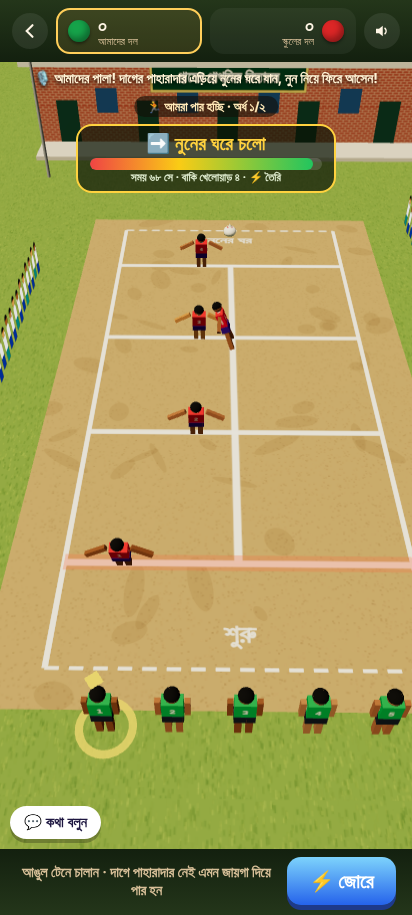
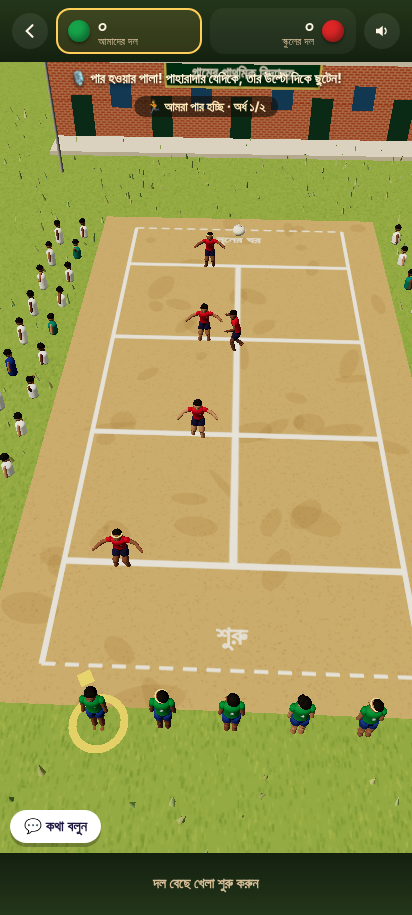
গোল্লাছুট আর দাড়িয়াবান্ধায় নতুন মসৃণ মানুষ, ৩ডি দর্শক, ঘাস, হালকা গ্লো; মাঠের মাটি আরো বাস্তব (kh-scene)
Claude-Session: https://claude.ai/code/session_01Sj7bcfDAG9UkavWmhC1U6s

diff --git a/games/gollachut/index.html b/games/gollachut/index.html
@@ -150,6 +150,8 @@ canvas{position:absolute;inset:0;width:100%;height:100%;display:block}
 <script src="/js/share-card.js"></script>
 <script type="module">
 import * as THREE from "/js/vendor/three.module.min.js";
+import { makeHuman } from "/js/kh-human.js";
+import { grassTufts, crowd as mkCrowd, composerFor } from "/js/kh-scene.js";
 import { initializeApp } from "https://www.gstatic.com/firebasejs/10.12.2/firebase-app.js";
 import { getAuth, onAuthStateChanged } from "https://www.gstatic.com/firebasejs/10.12.2/firebase-auth.js";
 import { getFirestore, doc, getDoc, setDoc, onSnapshot, collection, query, orderBy, limit, serverTimestamp } from "https://www.gstatic.com/firebasejs/10.12.2/firebase-firestore.js";
@@ -197,7 +199,7 @@ if (renderer) { renderer.setPixelRatio(Math.min(devicePixelRatio || 1, LOW ? 1.2
 const sky = new THREE.Mesh(new THREE.SphereGeometry(150, 24, 12), new THREE.ShaderMaterial({ side: THREE.BackSide, depthWrite: false, uniforms: {}, vertexShader: 'varying vec3 vp; void main(){ vp = normalize(position); gl_Position = projectionMatrix * modelViewMatrix * vec4(position,1.0); }', fragmentShader: 'varying vec3 vp; void main(){ float h = clamp(vp.y, 0.0, 1.0); vec3 top = vec3(.36,.6,.9), mid = vec3(.98,.78,.55), low = vec3(1.0,.88,.7); vec3 c = mix(low, mid, smoothstep(0.0,.12,h)); c = mix(c, top, smoothstep(.1,.55,h)); float sun = pow(max(dot(vp, normalize(vec3(-.5,.25,-.8))),0.0), 60.0); c += vec3(1.0,.8,.5)*sun*.8; gl_FragColor = vec4(c,1.0);\n#include <tonemapping_fragment>\n#include <colorspace_fragment>\n}' }));
 scene.add(sky); scene.fog = new THREE.Fog('#f1d7b0', 45, 120);
 scene.add(new THREE.HemisphereLight('#ffe9cc', '#56662f', 1.15));
-const sun = new THREE.DirectionalLight('#ffd6a0', 2.7); sun.position.set(-14, 16, -10); sun.castShadow = true; sun.shadow.mapSize.set(2048, 2048); Object.assign(sun.shadow.camera, { left: -18, right: 18, top: 20, bottom: -20, far: 70 }); sun.shadow.bias = -.0005; scene.add(sun); scene.add(sun.target);
+const sun = new THREE.DirectionalLight('#ffc98a', 3.0); sun.position.set(-16, 11, -10); sun.castShadow = true; sun.shadow.mapSize.set(2048, 2048); Object.assign(sun.shadow.camera, { left: -18, right: 18, top: 20, bottom: -20, far: 70 }); sun.shadow.bias = -.0005; scene.add(sun); scene.add(sun.target);
 function ctex(w, h, draw) { const c = document.createElement('canvas'); c.width = w; c.height = h; draw(c.getContext('2d'), w, h); const t = new THREE.CanvasTexture(c); t.colorSpace = THREE.SRGBColorSpace; t.anisotropy = 4; return t; }
 const M = (c, o) => new THREE.MeshStandardMaterial(Object.assign({ color: c, roughness: .9 }, o || {}));
 const PEG = [0, 11], TREE = [0, -14], FX = 9, FZ1 = 14.5, FZ0 = -17, CIRCLE = 5.6, SAFE = 2.6;
@@ -206,10 +208,13 @@ grassT.wrapS = grassT.wrapT = THREE.RepeatWrapping; grassT.repeat.set(18, 18);
 const ground = new THREE.Mesh(new THREE.PlaneGeometry(240, 240), M('#ffffff', { map: grassT })); ground.rotation.x = -Math.PI / 2; ground.receiveShadow = true; scene.add(ground);
 // মাঠের মাটি, চুনের দাগ
 const FW = FX * 2 + 1, FL = FZ1 - FZ0 + 1;
-const fieldT = ctex(512, 1024, (x, w, h) => {
-  x.fillStyle = '#b39a62'; x.fillRect(0, 0, w, h);
-  for (let i = 0; i < 12000; i++) { const v = Math.random(); x.fillStyle = `rgba(${120 + v * 60},${110 + v * 50},${60 + v * 40},.35)`; x.fillRect(Math.random() * w, Math.random() * h, 2, 2); }
-  for (let i = 0; i < 260; i++) { x.fillStyle = `rgba(${90 + Math.random() * 40},${130 + Math.random() * 40},50,.45)`; x.beginPath(); x.ellipse(Math.random() * w, Math.random() * h, 6 + Math.random() * 26, 3 + Math.random() * 10, Math.random() * 3, 0, 7); x.fill(); }
+const fieldT = ctex(1024, 2048, (x, w, h) => {
+  x.fillStyle = '#9c7a4a'; x.fillRect(0, 0, w, h);
+  for (let i = 0; i < 40000; i++) { const v = Math.random(); x.fillStyle = `rgba(${110 + v * 70},${85 + v * 55},${50 + v * 35},.4)`; x.fillRect(Math.random() * w, Math.random() * h, 2 + Math.random() * 2, 2 + Math.random() * 2); }
+  for (let i = 0; i < 120; i++) { x.fillStyle = `rgba(70,50,28,${.06 + Math.random() * .08})`; x.beginPath(); x.ellipse(Math.random() * w, Math.random() * h, 20 + Math.random() * 70, 10 + Math.random() * 30, Math.random() * 3, 0, 7); x.fill(); }
+  { const g = x.createLinearGradient(w * .35, 0, w * .65, 0); g.addColorStop(0, 'rgba(190,160,110,0)'); g.addColorStop(.5, 'rgba(190,160,110,.35)'); g.addColorStop(1, 'rgba(190,160,110,0)'); x.fillStyle = g; x.fillRect(w * .35, 0, w * .3, h); } // খুঁটি থেকে বটতলা পর্যন্ত পায়ে চলা ছাপ
+  for (let i = 0; i < 500; i++) { x.strokeStyle = 'rgba(60,40,20,.1)'; x.lineWidth = 2; const a = w * .5 + (Math.random() - .5) * w * .5, b = Math.random() * h; x.beginPath(); x.ellipse(a, b, 5, 9, Math.random(), 0, 7); x.stroke(); }
+  for (let i = 0; i < 70; i++) { x.fillStyle = `rgba(${80 + Math.random() * 30},${110 + Math.random() * 30},45,.3)`; x.beginPath(); x.ellipse(Math.random() * w, Math.random() * h, 6 + Math.random() * 26, 3 + Math.random() * 10, Math.random() * 3, 0, 7); x.fill(); }
   const X = v => (v + FW / 2) / FW * w, Z = z => (z - FZ0 + .5) / FL * h, U = w / FW;
   x.strokeStyle = 'rgba(255,255,248,.9)'; x.lineWidth = 6; x.setLineDash([]);
   x.beginPath(); x.arc(X(PEG[0]), Z(PEG[1]), CIRCLE * U, 0, 7); x.stroke();
@@ -248,23 +253,21 @@ function hut(x, z, ry) {
 // দর্শক বাচ্চারা (দুই পাশে)
 const kidsTex = seed => ctex(512, 128, (x, w, h) => { x.clearRect(0, 0, w, h); const n = 14; for (let i = 0; i < n; i++) { const cx = 18 + i * (w - 36) / (n - 1), cy = 60 + (i % 2) * 6; x.fillStyle = ['#e74c3c', '#2563eb', '#16a34a', '#f59e0b', '#9333ea', '#ffffff', '#ec4899'][(i * 3 + seed) % 7]; x.beginPath(); x.roundRect ? x.roundRect(cx - 11, cy, 22, 52, 7) : x.fillRect(cx - 11, cy, 22, 52); x.fill(); x.fillStyle = ['#c68642', '#8d5524', '#a86b3c'][(i + seed) % 3]; x.beginPath(); x.arc(cx, cy - 10, 10, 0, 7); x.fill(); x.fillStyle = '#141414'; x.beginPath(); x.arc(cx, cy - 13, 10, Math.PI, 0); x.fill(); } });
 const crowds = [];
-[[-FX - 2.5, -2, Math.PI / 2], [FX + 2.5, 0, -Math.PI / 2], [-FX - 2.5, 9, Math.PI / 2], [FX + 2.5, -11, -Math.PI / 2]].forEach(([x, z, r], i) => { const m = new THREE.Mesh(new THREE.PlaneGeometry(9, 2.2), new THREE.MeshBasicMaterial({ map: kidsTex(i), transparent: true, side: THREE.DoubleSide, alphaTest: .05 })); m.position.set(x, 1.05, z); m.rotation.y = r; scene.add(m); crowds.push(m); });
+// দুই পাশে ৩ডি দর্শক (পাড়ার লোক আর বাচ্চারা)
+const CSP = []; for (const sx of [-1, 1]) for (let r = 0; r < 2; r++) for (let i = 0; i < 16; i++) { const z = -14 + i * 1.65 + (r ? .8 : 0); if (z > 12) continue; CSP.push({ x: sx * (FX + 2 + r * .9), z, ry: sx > 0 ? -Math.PI / 2 : Math.PI / 2, sit: r === 0 }); }
+const crowdUpd = mkCrowd(THREE, scene, CSP); let excite = 0;
+grassTufts(THREE, scene, { n: 1600, range: 26, skip: (x, z) => Math.abs(x) < FX + .8 && z > FZ0 - .6 && z < FZ1 + .6 });
 
 // খেলোয়াড়ের মডেল
 const SKIN = ['#c68642', '#8d5524', '#a86b3c', '#b07a4a'];
 function shirtTex(c, n) { return ctex(64, 64, (x, w, h) => { x.fillStyle = c; x.fillRect(0, 0, w, h); x.fillStyle = 'rgba(255,255,255,.9)'; x.font = '800 30px sans-serif'; x.textAlign = 'center'; x.fillText(String(n), w / 2, 44); }); }
 const shortsM = [M('#1f2937'), M('#4c1d95')];
-function mkMan(team, n, leader) {
-  const g = new THREE.Group(), body = new THREE.Group(); g.add(body);
-  const skin = M(pick(SKIN), { roughness: .7 }), shirt = new THREE.MeshStandardMaterial({ map: shirtTex(team ? '#dc2626' : '#16a34a', n), roughness: .8 });
-  const box = (w, h, d, x, y, z, m) => { const me = new THREE.Mesh(new THREE.BoxGeometry(w, h, d), m); me.position.set(x, y, z); me.castShadow = true; body.add(me); return me; };
-  box(.46, .55, .26, 0, 1.2, 0, shirt); box(.46, .26, .28, 0, .82, 0, shortsM[team]);
-  const mk = (x, y, w, h) => { const p = new THREE.Group(); p.position.set(x, y, 0); const m = new THREE.Mesh(new THREE.BoxGeometry(w, h, w), skin); m.position.y = -h / 2; m.castShadow = true; p.add(m); body.add(p); return p; };
-  const legL = mk(-.12, .72, .15, .7), legR = mk(.12, .72, .15, .7), armL = mk(-.31, 1.45, .12, .58), armR = mk(.31, 1.45, .12, .58);
-  const head = new THREE.Mesh(new THREE.SphereGeometry(.16, 14, 10), skin); head.position.y = 1.67; head.castShadow = true; body.add(head);
-  const hair = new THREE.Mesh(new THREE.SphereGeometry(.17, 14, 10, 0, Math.PI * 2, 0, Math.PI / 2), M('#111')); hair.position.y = 1.7; body.add(hair);
-  if (leader) { const band = new THREE.Mesh(new THREE.TorusGeometry(.165, .035, 6, 16), M('#facc15', { emissive: '#7a5a00' })); band.rotation.x = Math.PI / 2; band.position.y = 1.72; body.add(band); } // গোদার মাথায় হলুদ ফিতা
-  scene.add(g); return { g, body, legL, legR, armL, armR };
+const POOL = [[], []];
+const SKINS = ['#9a6a4f', '#6e4532', '#b58467', '#83563d', '#8a5a40'];
+function mkMan(team, n, leader) { // হাড়সহ মসৃণ মানুষ; একবার বানিয়ে বারবার ব্যবহার
+  if (POOL[team][n]) { const h = POOL[team][n]; h.root.visible = true; return { h, g: h.root }; }
+  const h = makeHuman(THREE, { skin: SKINS[(n * 3 + team) % 5], shirt: team ? '#b91c1c' : '#15803d', shorts: team ? '#1e1b4b' : '#111827', trim: '#facc15', number: n, hairStyle: leader ? 2 : (n + team) % 2, mustache: (n + team * 2) % 4 === 0, look: team ? 'angry' : 'calm' });
+  scene.add(h.root); POOL[team][n] = h; return { h, g: h.root };
 }
 const star = new THREE.Mesh(new THREE.OctahedronGeometry(.2, 0), new THREE.MeshBasicMaterial({ color: '#ffd23f' })); star.visible = false; scene.add(star);
 const meRing = new THREE.Mesh(new THREE.RingGeometry(.5, .68, 28), new THREE.MeshBasicMaterial({ color: '#ffd23f', transparent: true, opacity: .85, side: THREE.DoubleSide, depthWrite: false })); meRing.rotation.x = -Math.PI / 2; meRing.visible = false; scene.add(meRing);
@@ -281,7 +284,6 @@ const GUARD = [[-6, .5], [6, .5], [-3.5, -4], [3.5, -4], [0, -9.5]];
 let lv = 1, S = null, W = 0, H = 0, last = 0;
 function newMatch() {
   const mk = (team) => Array.from({ length: RUNNERS }, (_, i) => ({ team, i, x: 0, z: 0, vx: 0, vz: 0, m: mkMan(team, i + 1, i === RUNNERS - 1) }));
-  if (S) S.P.forEach(t => t.forEach(p => scene.remove(p.m.g)));
   S = { P: [mk(0), mk(1)], score: [0, 0], half: 0, phase: 'idle', t: 0, ang: 0, cur: 0, runner: null, joy: null, dash: 0, dashCd: 0, myTags: 0, mySafe: 0, over: false, ctrl: 0 };
   setupHalf();
 }
@@ -463,25 +465,30 @@ function step(dt) {
     }
   }
 }
+let poseDt = 1 / 60;
 function pose(p, T0) {
-  const g = p.m.g, sp = Math.hypot(p.vx || 0, p.vz || 0), run = Math.min(1, sp / 3.5);
-  g.position.set(p.x, 0, p.z); if (sp > .3) g.rotation.y = Math.atan2(p.vx, p.vz);
-  const s = Math.sin(T0 * (10 + sp * 1.4) + p.i) * run; p.m.legL.rotation.x = s * 1; p.m.legR.rotation.x = -s * 1; p.m.armL.rotation.x = -s * .9; p.m.armR.rotation.x = s * .9;
-  p.m.armL.rotation.z = p.m.armR.rotation.z = 0; p.m.body.rotation.x = run * .22; p.m.body.position.y = Math.abs(s) * .06;
-  if (p.state === 'chain') { p.m.armL.rotation.z = -1.35; p.m.armR.rotation.z = 1.35; p.m.armL.rotation.x = p.m.armR.rotation.x = 0; if (p.i === RUNNERS - 1) g.rotation.y = Math.atan2(PEG[0] - p.x, PEG[1] - p.z); }
-  if (p.state === 'safe' && sp < .3) { p.m.armL.rotation.z = -2.6 + Math.sin(T0 * 8) * .3; p.m.armR.rotation.z = 2.6 - Math.sin(T0 * 8) * .3; p.m.body.position.y = Math.abs(Math.sin(T0 * 6)) * .2; }
-  if (p.state === 'out' && sp < .3) { p.m.body.rotation.x = 0; p.m.legL.rotation.x = p.m.legR.rotation.x = -1.4; p.m.body.position.y = -.55; g.rotation.y = 0; }
-  if (p.tagAnim > 0) { p.tagAnim -= 1 / 60; p.m.armR.rotation.x = -1.6; p.m.armL.rotation.x = -1.6; p.m.body.rotation.x = .5; }
+  const h = p.m.h, g = h.root, sp = Math.hypot(p.vx || 0, p.vz || 0);
+  g.position.set(p.x, 0, p.z);
+  let face = sp > .3 ? Math.atan2(p.vx, p.vz) : null;
+  if (p.state === 'chain' && p.i === RUNNERS - 1) face = Math.atan2(PEG[0] - p.x, PEG[1] - p.z);
+  if (p.state === 'out' && sp < .3) face = 0;
+  if (face !== null) { const d = Math.atan2(Math.sin(face - g.rotation.y), Math.cos(face - g.rotation.y)); g.rotation.y += d * Math.min(1, poseDt * 12); }
+  const guard = p.state === 'guard' && S && S.phase !== 'end';
+  h.set({ run: Math.min(1, sp / 3.6), wide: p.state === 'chain' ? .85 : guard && sp < 1.5 ? .7 : 0, crouch: guard ? .45 : 0, cheer: p.state === 'safe' && sp < .3 ? 1 : 0, shout: p.state === 'safe' || (p === (S && S.runner) && S.phase === 'run') ? 1 : 0, sit: p.state === 'out' && sp < .3 ? 1 : 0, reach: p.tagAnim > 0 ? 1 : 0, lean: p.tagAnim > 0 ? .3 : 0 });
+  if (p.tagAnim > 0) p.tagAnim -= poseDt;
+  h.look = S && S.runner && S.runner !== p ? S.runner : null;
+  h.update(poseDt, sp);
 }
 
 /* ---------- ক্যামেরা আর লুপ ---------- */
-function resize() { const r = $('stage').getBoundingClientRect(); W = r.width; H = r.height; if (renderer) renderer.setSize(W, H, false); cam.aspect = W / H; cam.fov = W / H < .8 ? 62 : 48; cam.updateProjectionMatrix(); }
+const composer = composerFor(THREE, renderer, scene, cam, { strength: .22, threshold: .9 });
+function resize() { const r = $('stage').getBoundingClientRect(); W = r.width; H = r.height; if (renderer) renderer.setSize(W, H, false); if (composer) { composer.setPixelRatio(renderer.getPixelRatio()); composer.setSize(W, H); } cam.aspect = W / H; cam.fov = W / H < .8 ? 62 : 48; cam.updateProjectionMatrix(); }
 addEventListener('resize', resize);
 const camPos = new THREE.Vector3(0, 14, 24), camLook = new THREE.Vector3(0, 0, 4);
 function loop(ts) {
   const dt = Math.min(.05, (ts - last) / 1000 || 0); last = ts; const T0 = ts / 1000;
   if (S && !S.over) step(dt);
-  if (S) S.P.forEach(tm => tm.forEach(p => pose(p, T0)));
+  poseDt = dt; if (S) S.P.forEach(tm => tm.forEach(p => pose(p, T0)));
   const port = W / H < .8;
   if (S && !S.over) {
     const a = atkTeam(), focus = S.phase === 'run' ? S.runner : null, nr = S.phase === 'spin' ? nextRunner() : null, hl = focus || nr;
@@ -493,11 +500,11 @@ function loop(ts) {
   } else { camPos.set(Math.sin(T0 * .1) * 8, port ? 20 : 14, 22); camLook.set(0, 0, -2); }
   sun.position.set(cam.position.x - 14, 16, cam.position.z - 12); sun.target.position.set(camLook.x, 0, camLook.z);
   dusts.forEach(d => { if (d.t >= 1) { d.s.visible = false; return; } d.t = Math.min(1, d.t + dt * 1.6); const s = .7 + d.t * 2.2 * d.k; d.s.scale.set(s, s, 1); d.s.material.opacity = (1 - d.t) * .55; d.s.position.y += dt * .6; });
-  crowds.forEach((c, i) => c.position.y = 1.05 + Math.abs(Math.sin(T0 * (S && S.phase === 'result' ? 9 : 2.2) + i)) * (S && S.phase === 'result' ? .16 : .04));
+  excite += ((S && S.phase === 'result' ? 1 : 0) - excite) * Math.min(1, dt * 2); crowdUpd(T0, excite);
   safeRing.material.opacity = .4 + Math.sin(T0 * 4) * .2; pegTop.position.y = 1.45 + Math.sin(T0 * 3) * .03;
   banyan.rotation.y = Math.sin(T0 * .6) * .01;
   cam.position.lerp(camPos, .07); cam.lookAt(camLook);
-  if (renderer) renderer.render(scene, cam); requestAnimationFrame(loop);
+  if (renderer) { if (composer) composer.render(dt); else renderer.render(scene, cam); } requestAnimationFrame(loop);
 }
 function start(level) {
   audio(); lv = level; store.set('kh-golla-lv', lv); newMatch(); ['startO', 'endO'].forEach(i => $(i).hidden = true);

diff --git a/games/dariabandha/index.html b/games/dariabandha/index.html
@@ -155,6 +155,8 @@ import { getAuth, onAuthStateChanged } from "https://www.gstatic.com/firebasejs/
 import { getFirestore, doc, getDoc, setDoc, onSnapshot, collection, query, orderBy, limit, serverTimestamp } from "https://www.gstatic.com/firebasejs/10.12.2/firebase-firestore.js";
 import { firebaseConfig, ADMIN_EMAILS } from "/js/firebase-config.js";
 import { attachGameVideos } from "/js/videos.js";
+import { makeHuman } from "/js/kh-human.js";
+import { grassTufts, crowd as mkCrowd, composerFor } from "/js/kh-scene.js";
 
 const app = initializeApp(firebaseConfig), auth = getAuth(app), db = getFirestore(app);
 attachGameVideos(cb => onSnapshot(doc(db, 'config', 'videos'), d => cb(d.exists() ? d.data() : {}), () => {}));
@@ -238,23 +240,20 @@ function tree(x, z, s) { const g = new THREE.Group(); const tr = new THREE.Mesh(
 // দর্শক ছাত্রছাত্রী (সাদা শার্ট, নীল প্যান্ট/স্কার্ট)
 const kidsTex = seed => ctex(512, 128, (x, w, h) => { x.clearRect(0, 0, w, h); const n = 14; for (let i = 0; i < n; i++) { const cx = 18 + i * (w - 36) / (n - 1), cy = 58 + (i % 2) * 6; x.fillStyle = '#f8f8f4'; x.beginPath(); x.roundRect ? x.roundRect(cx - 11, cy, 22, 30, 6) : x.fillRect(cx - 11, cy, 22, 30); x.fill(); x.fillStyle = (i + seed) % 3 ? '#1e3a8a' : '#0f766e'; x.fillRect(cx - 11, cy + 28, 22, 26); x.fillStyle = ['#c68642', '#8d5524', '#a86b3c'][(i + seed) % 3]; x.beginPath(); x.arc(cx, cy - 10, 10, 0, 7); x.fill(); x.fillStyle = '#141414'; x.beginPath(); x.arc(cx, cy - 13, 10, Math.PI, 0); x.fill(); if ((i + seed) % 2) { x.fillStyle = '#ffffff'; x.fillRect(cx - 12, cy - 6, 4, 10); x.fillRect(cx + 8, cy - 6, 4, 10); } } });
 const crowds = [];
-[[-HX - 3.2, -3, Math.PI / 2], [HX + 3.2, 3, -Math.PI / 2], [-HX - 3.2, 7, Math.PI / 2], [HX + 3.2, -7, -Math.PI / 2]].forEach(([x, z, r], i) => { const m = new THREE.Mesh(new THREE.PlaneGeometry(8, 2.2), new THREE.MeshBasicMaterial({ map: kidsTex(i), transparent: true, side: THREE.DoubleSide, alphaTest: .05 })); m.position.set(x, 1.05, z); m.rotation.y = r; scene.add(m); crowds.push(m); });
+const CSP = []; for (const sx of [-1, 1]) for (let r = 0; r < 2; r++) for (let i = 0; i < 12; i++) CSP.push({ x: sx * (HX + 2.2 + r * .9), z: -9.5 + i * 1.75 + (r ? .8 : 0), ry: sx > 0 ? -Math.PI / 2 : Math.PI / 2, sit: r === 0 });
+const crowdUpd = mkCrowd(THREE, scene, CSP, { colors: ['#f8fafc', '#f1f5f9', '#e2e8f0', '#1e3a8a', '#0f766e', '#f8fafc'] }); let excite = 0; // স্কুল ড্রেসের ছাত্রছাত্রী
+grassTufts(THREE, scene, { n: 1400, range: 24, skip: (x, z) => Math.abs(x) < HX + 1.6 && z > ZE - 1.2 && z < ZS + 2.2 });
 
 // খেলোয়াড়
 const SKIN = ['#c68642', '#8d5524', '#a86b3c', '#b07a4a'];
 function shirtTex(c, n) { return ctex(64, 64, (x, w, h) => { x.fillStyle = c; x.fillRect(0, 0, w, h); x.fillStyle = 'rgba(255,255,255,.9)'; x.font = '800 30px sans-serif'; x.textAlign = 'center'; x.fillText(String(n), w / 2, 44); }); }
 const shortsM = [M('#1f2937'), M('#4c1d95')];
-function mkMan(team, n) {
-  const g = new THREE.Group(), body = new THREE.Group(); g.add(body);
-  const skin = M(pick(SKIN), { roughness: .7 }), shirt = new THREE.MeshStandardMaterial({ map: shirtTex(team ? '#dc2626' : '#16a34a', n), roughness: .8 });
-  const box = (w, h, d, x, y, z, m) => { const me = new THREE.Mesh(new THREE.BoxGeometry(w, h, d), m); me.position.set(x, y, z); me.castShadow = true; body.add(me); return me; };
-  box(.46, .55, .26, 0, 1.2, 0, shirt); box(.46, .26, .28, 0, .82, 0, shortsM[team]);
-  const mk = (x, y, w, h) => { const p = new THREE.Group(); p.position.set(x, y, 0); const m = new THREE.Mesh(new THREE.BoxGeometry(w, h, w), skin); m.position.y = -h / 2; m.castShadow = true; p.add(m); body.add(p); return p; };
-  const legL = mk(-.12, .72, .15, .7), legR = mk(.12, .72, .15, .7), armL = mk(-.31, 1.45, .12, .58), armR = mk(.31, 1.45, .12, .58);
-  const head = new THREE.Mesh(new THREE.SphereGeometry(.16, 14, 10), skin); head.position.y = 1.67; head.castShadow = true; body.add(head);
-  const hair = new THREE.Mesh(new THREE.SphereGeometry(.17, 14, 10, 0, Math.PI * 2, 0, Math.PI / 2), M('#111')); hair.position.y = 1.7; body.add(hair);
-  const bag = new THREE.Mesh(new THREE.SphereGeometry(.13, 10, 8), M('#f4f1ea')); bag.position.set(.34, 1.0, .1); bag.visible = false; body.add(bag); // নুনের পুঁটলি হাতে
-  scene.add(g); return { g, body, legL, legR, armL, armR, bag };
+const POOL = [[], []], SKINS = ['#9a6a4f', '#6e4532', '#b58467', '#83563d', '#8a5a40'];
+function mkMan(team, n) { // হাড়সহ মসৃণ মানুষ (স্কুল ড্রেসের মতো জার্সি), একবার বানিয়ে বারবার ব্যবহার
+  if (POOL[team][n]) return POOL[team][n];
+  const h = makeHuman(THREE, { skin: SKINS[(n * 3 + team) % 5], shirt: team ? '#b91c1c' : '#15803d', shorts: team ? '#1e1b4b' : '#1e3a8a', trim: '#fde68a', number: n, hairStyle: (n + team) % 3, mustache: false, look: team ? 'angry' : 'calm', scale: .92 });
+  const bag = new THREE.Mesh(new THREE.SphereGeometry(.12, 12, 10), new THREE.MeshStandardMaterial({ color: '#f4f1ea', roughness: .6 })); bag.scale.y = .85; bag.position.set(0, -.1, .02); bag.visible = false; h.bones.wrR.add(bag);
+  scene.add(h.root); return POOL[team][n] = { h, g: h.root, bag };
 }
 const star = new THREE.Mesh(new THREE.OctahedronGeometry(.2, 0), new THREE.MeshBasicMaterial({ color: '#ffd23f' })); star.visible = false; scene.add(star);
 const meRing = new THREE.Mesh(new THREE.RingGeometry(.5, .68, 28), new THREE.MeshBasicMaterial({ color: '#ffd23f', transparent: true, opacity: .85, side: THREE.DoubleSide, depthWrite: false })); meRing.rotation.x = -Math.PI / 2; meRing.visible = false; scene.add(meRing);
@@ -270,7 +269,6 @@ const LV = [{ n: 'ছোট ক্লাসের দল', dsp: 2.3, lag: .7, as
 const HALVES = 2, LIVES = 4, HALFT = 70, MYSP = 4.7, MYDEF = 3.4;
 let lv = 1, S = null, W = 0, H = 0, last = 0;
 function newMatch() {
-  if (S) S.P.forEach(t => t.forEach(p => scene.remove(p.m.g)));
   const mk = team => Array.from({ length: 5 }, (_, i) => ({ team, i, x: 0, z: 0, vx: 0, vz: 0, m: mkMan(team, i + 1) }));
   S = { P: [mk(0), mk(1)], score: [0, 0], half: 0, phase: 'idle', t: 0, joy: null, dash: 0, dashCd: 0, myTrips: 0, myTags: 0, over: false };
   setupHalf();
@@ -302,7 +300,7 @@ function caught(byMe, d) {
   S.phase = 'pause'; S.t = 0;
 }
 function trip() {
-  const a = atk(), r = S.cur; S.score[a]++; hud(); sfx('point'); sfx('cheer'); r.salt = false; r.m.bag.visible = false; r.dir = -1;
+  const a = atk(), r = S.cur; S.score[a]++; hud(); sfx('point'); sfx('cheer'); r.cheerT = 1.5; excite = 1; r.salt = false; r.m.bag.visible = false; r.dir = -1;
   if (a === 0) { S.myTrips++; shout('নুন নিয়ে ফিরলেন! +১ 🧂', '#8af58a'); $('com').textContent = '🎙 ' + pick(['সাবাস! পুরো মাঠ পার!', 'কেউ ছুঁতেই পারলো না!', 'আবার যান, আরেকবার নুন আনেন!']); if (window.KHViral && S.myTrips % 3 === 0) KHViral.confetti(); }
   else { shout('ওরা নুন নিয়ে ফিরলো +১', '#ff9a8a'); $('com').textContent = '🎙 ' + pick(['ইশ! পুরো পথ পার হয়ে গেলো!', 'পাহারা আরো শক্ত করতে হবে!']); }
 }
@@ -417,31 +415,31 @@ function halfEnd() {
   S.half++; if (S.half >= HALVES) return endMatch();
   shout('অর্ধেক শেষ! এবার পাহারা', '#fff'); setTimeout(() => { if (S && !S.over && S.phase === 'swap') setupHalf(); }, 1600);
 }
+let poseDt = 1 / 60;
 function pose(p, T0) {
-  const g = p.m.g, sp = Math.hypot(p.vx || 0, p.vz || 0), run = Math.min(1, sp / 3.2);
+  const h = p.m.h, g = h.root, sp = Math.hypot(p.vx || 0, p.vz || 0), r = S && S.cur;
   g.position.set(p.x, 0, p.z);
-  const s = Math.sin(T0 * (10 + sp * 1.5) + p.i) * run; p.m.legL.rotation.x = s; p.m.legR.rotation.x = -s; p.m.armL.rotation.x = -s * .9; p.m.armR.rotation.x = s * .9; p.m.armL.rotation.z = p.m.armR.rotation.z = 0; p.m.body.rotation.x = run * .2; p.m.body.position.y = Math.abs(s) * .05;
-  if (p.role === 'line' || p.role === 'mid') { // পাহারাদার: দাগে দাঁড়িয়ে দুই হাত ছড়ানো, ঝুঁকে থাকা
-    const r = S && S.cur; g.rotation.y = r ? (p.z > r.z ? Math.PI : 0) : 0; if (p.role === 'mid' && r) g.rotation.y = r.x > 0 ? Math.PI / 2 : -Math.PI / 2;
-    p.m.body.rotation.x = .35; p.m.armL.rotation.z = -1.1; p.m.armR.rotation.z = 1.1; p.m.armL.rotation.x = p.m.armR.rotation.x = -.4;
-    if (sp > .3) { const side = Math.sin(T0 * 14) * .35; p.m.legL.rotation.z = side; p.m.legR.rotation.z = -side; p.m.legL.rotation.x = p.m.legR.rotation.x = 0; } else p.m.legL.rotation.z = p.m.legR.rotation.z = 0;
-  } else if (sp > .3) g.rotation.y = Math.atan2(p.vx, p.vz);
-  if (p.role === 'wait') g.rotation.y = Math.PI;
-  if (p.role === 'out') { if (sp < .3) { p.m.body.rotation.x = 0; p.m.legL.rotation.x = p.m.legR.rotation.x = -1.4; p.m.body.position.y = -.55; g.rotation.y = 0; } }
-  if (p.tagAnim > 0) { p.tagAnim -= 1 / 60; p.m.armR.rotation.x = -1.6; p.m.armL.rotation.x = -1.6; p.m.body.rotation.x = .6; }
+  let face = null; const guard = p.role === 'line' || p.role === 'mid';
+  if (guard) face = p.role === 'mid' ? (r && r.x > 0 ? Math.PI / 2 : -Math.PI / 2) : (r ? (p.z > r.z ? Math.PI : 0) : 0);
+  else if (sp > .3) face = Math.atan2(p.vx, p.vz); else if (p.role === 'wait') face = Math.PI; else if (p.role === 'out') face = 0;
+  if (face !== null) { const d = Math.atan2(Math.sin(face - g.rotation.y), Math.cos(face - g.rotation.y)); g.rotation.y += d * Math.min(1, poseDt * 12); }
+  h.set({ run: guard ? Math.min(.5, sp / 4) : Math.min(1, sp / 3.4), crouch: guard ? .6 : 0, wide: guard ? 1 : 0, sit: p.role === 'out' && sp < .3 ? 1 : 0, reach: p.tagAnim > 0 ? 1 : 0, lean: p.tagAnim > 0 ? .35 : 0, cheer: p.cheerT > 0 ? 1 : 0, shout: p.cheerT > 0 || (p === r && sp > 4) ? 1 : 0 });
+  if (p.tagAnim > 0) p.tagAnim -= poseDt; if (p.cheerT > 0) p.cheerT -= poseDt;
+  h.look = r && r !== p ? r : null; h.update(poseDt, sp);
 }
 function sideline(dt) { // আউট হওয়ারা মাঠের পাশে বসে
   S.P.forEach(t => t.forEach((p, i) => { if (p.role === 'out') goTo(p, (p.team ? 1 : -1) * (HX + 1.4), ZS - 1 - i * .9, 3, dt); else if (p.role === 'wait') goTo(p, -3 + i * 1.5, ZS + 1.4, 3, dt); }));
 }
 
 /* ---------- ক্যামেরা আর লুপ ---------- */
-function resize() { const r = $('stage').getBoundingClientRect(); W = r.width; H = r.height; if (renderer) renderer.setSize(W, H, false); cam.aspect = W / H; cam.fov = W / H < .8 ? 60 : 46; cam.updateProjectionMatrix(); }
+const composer = composerFor(THREE, renderer, scene, cam, { strength: .2, threshold: .92 });
+function resize() { const r = $('stage').getBoundingClientRect(); W = r.width; H = r.height; if (renderer) renderer.setSize(W, H, false); if (composer) { composer.setPixelRatio(renderer.getPixelRatio()); composer.setSize(W, H); } cam.aspect = W / H; cam.fov = W / H < .8 ? 60 : 46; cam.updateProjectionMatrix(); }
 addEventListener('resize', resize);
 const camPos = new THREE.Vector3(0, 16, 18), camLook = new THREE.Vector3(0, 0, 0);
 function loop(ts) {
   const dt = Math.min(.05, (ts - last) / 1000 || 0); last = ts; const T0 = ts / 1000;
   if (S && !S.over) { step(dt); sideline(dt); }
-  if (S) S.P.forEach(tm => tm.forEach(p => pose(p, T0)));
+  poseDt = dt; if (S) S.P.forEach(tm => tm.forEach(p => pose(p, T0)));
   const port = W / H < .8, r = S && S.cur;
   if (S && !S.over && r) {
     star.visible = true; star.position.set(r.x, 2.3 + Math.sin(T0 * 6) * .08, r.z); star.rotation.y = T0 * 3;
@@ -449,11 +447,11 @@ function loop(ts) {
     const fz = clamp(r.z, -7, 8); camPos.set(r.x * .25, port ? 15 : 11, fz + (port ? 10 : 9.5)); camLook.set(r.x * .3, 0, fz - (port ? 4.5 : 3.5));
   } else { star.visible = meRing.visible = false; camPos.set(Math.sin(T0 * .12) * 6, port ? 20 : 14, 18); camLook.set(0, 0, -1); }
   dusts.forEach(d => { if (d.t >= 1) { d.s.visible = false; return; } d.t = Math.min(1, d.t + dt * 1.6); const s = .7 + d.t * 2.2 * d.k; d.s.scale.set(s, s, 1); d.s.material.opacity = (1 - d.t) * .55; d.s.position.y += dt * .6; });
-  crowds.forEach((c, i) => c.position.y = 1.05 + Math.abs(Math.sin(T0 * 2.4 + i)) * .04);
+  excite = Math.max(0, excite - dt * .5); crowdUpd(T0, excite);
   const fp = flagGeo.attributes.position; for (let i = 0; i < fp.count; i++) { const x0 = flagBase[i * 3]; fp.setZ(i, Math.sin(x0 * 3 + T0 * 5) * .12 * (x0 + 1)); } fp.needsUpdate = true;
   saltBag.rotation.y = T0 * .8; lineGlow.material.opacity = .25 + Math.sin(T0 * 6) * .12;
   cam.position.lerp(camPos, .07); cam.lookAt(camLook);
-  if (renderer) renderer.render(scene, cam); requestAnimationFrame(loop);
+  if (renderer) { if (composer) composer.render(dt); else renderer.render(scene, cam); } requestAnimationFrame(loop);
 }
 function start(level) {
   audio(); lv = level; store.set('kh-daria-lv', lv); newMatch(); ['startO', 'endO'].forEach(i => $(i).hidden = true);

diff --git a/js/kh-scene.js b/js/kh-scene.js
@@ -1,0 +1,50 @@
+// খেলাঘরের মাঠের সাজ: ঘাসের গোছা, ৩ডি দর্শক, আর হালকা গ্লো (bloom)। সব গেমে একই মানের পরিবেশের জন্য।
+import { EffectComposer } from '/js/vendor/addons/EffectComposer.js';
+import { RenderPass } from '/js/vendor/addons/RenderPass.js';
+import { UnrealBloomPass } from '/js/vendor/addons/UnrealBloomPass.js';
+import { OutputPass } from '/js/vendor/addons/OutputPass.js';
+
+const rnd = (a, b) => a + Math.random() * (b - a), pick = a => a[Math.floor(Math.random() * a.length)];
+export const isLow = () => (navigator.hardwareConcurrency || 4) <= 4 && /Android|iPhone/i.test(navigator.userAgent) && (navigator.deviceMemory || 4) <= 3;
+
+// ঘাসের গোছা: skip(x, z) true হলে সেখানে ঘাস হবে না (যেমন মাঠের ভেতর)
+export function grassTufts(THREE, scene, { n = 1500, range = 24, skip = () => false, hue = [.2, .28] } = {}) {
+  const g = new THREE.ConeGeometry(.06, .28, 4); g.translate(0, .14, 0);
+  const im = new THREE.InstancedMesh(g, new THREE.MeshStandardMaterial({ color: '#ffffff', roughness: 1 }), n);
+  const m4 = new THREE.Matrix4(), q = new THREE.Quaternion(), c = new THREE.Color(); let k = 0, guard = 0;
+  while (k < n && guard++ < n * 20) { const x = rnd(-range, range), z = rnd(-range, range); if (skip(x, z)) continue; q.setFromEuler(new THREE.Euler(rnd(-.3, .3), rnd(0, 6), rnd(-.3, .3))); const s = rnd(.6, 1.5); m4.compose(new THREE.Vector3(x, 0, z), q, new THREE.Vector3(s, s * rnd(.7, 1.4), s)); im.setMatrixAt(k, m4); im.setColorAt(k, c.setHSL(rnd(hue[0], hue[1]), .5, rnd(.22, .36))); k++; }
+  im.count = k; im.receiveShadow = true; scene.add(im); return im;
+}
+
+// দর্শক: spots = [{x, z, ry, sit}] ; ফেরত দেয় update(T0, excite)
+export function crowd(THREE, scene, spots, { colors } = {}) {
+  const n = spots.length, bodyG = new THREE.CapsuleGeometry(.17, .42, 4, 8), headG = new THREE.SphereGeometry(.13, 10, 8), hairG = new THREE.SphereGeometry(.137, 10, 6, 0, Math.PI * 2, 0, Math.PI / 2);
+  const armG = new THREE.CapsuleGeometry(.05, .32, 3, 6);
+  const M = (c, r) => new THREE.MeshStandardMaterial({ color: c, roughness: r });
+  const bodies = new THREE.InstancedMesh(bodyG, M('#ffffff', .85), n), heads = new THREE.InstancedMesh(headG, M('#ffffff', .7), n), hairs = new THREE.InstancedMesh(hairG, M('#120c08', .8), n), arms = new THREE.InstancedMesh(armG, M('#ffffff', .75), n * 2);
+  const cl = colors || ['#e74c3c', '#2563eb', '#16a34a', '#f59e0b', '#9333ea', '#f5f5f5', '#0ea5e9', '#ec4899', '#facc15', '#1f2937'], sk = ['#9a6a4f', '#6e4532', '#b58467', '#83563d'], c = new THREE.Color();
+  spots.forEach((s, i) => { s.ph = s.ph ?? Math.random() * 6; s.fan = Math.random() < .35; bodies.setColorAt(i, c.set(pick(cl))); const skc = pick(sk); heads.setColorAt(i, c.set(skc)); arms.setColorAt(i * 2, c.set(skc)); arms.setColorAt(i * 2 + 1, c.set(skc)); });
+  bodies.castShadow = true; [bodies, heads, hairs, arms].forEach(m => { m.instanceMatrix.setUsage(THREE.DynamicDrawUsage); scene.add(m); });
+  const m4 = new THREE.Matrix4(), q = new THREE.Quaternion(), qa = new THREE.Quaternion(), v = new THREE.Vector3(), sc = new THREE.Vector3(1, 1, 1), e = new THREE.Euler(), off = new THREE.Vector3();
+  return function update(T0, excite = 0) {
+    spots.forEach((s, i) => {
+      const jump = Math.max(0, Math.sin(T0 * (5 + excite * 4) + s.ph)) * (.03 + excite * .25) * (s.sit ? .4 : 1), base = s.sit ? .32 : .55;
+      e.set(0, s.ry, Math.sin(T0 * 2 + s.ph) * .05); q.setFromEuler(e); v.set(s.x, base + jump, s.z); sc.set(1, s.sit ? .7 : 1, 1); m4.compose(v, q, sc); bodies.setMatrixAt(i, m4);
+      v.set(s.x, base + jump + (s.sit ? .48 : .58), s.z); sc.set(1, 1, 1); m4.compose(v, q, sc); heads.setMatrixAt(i, m4); v.y += .02; m4.compose(v, q, sc); hairs.setMatrixAt(i, m4);
+      const up = (s.fan || excite > .5) ? (excite > .3 ? 1 : .5 + Math.sin(T0 * 3 + s.ph) * .5) : 0;
+      for (const sd of [-1, 1]) { const wave = up ? Math.sin(T0 * 9 + s.ph + sd) * .3 : 0; e.set(0, s.ry, sd * (.25 + up * 2.4 + wave)); qa.setFromEuler(e); off.set(sd * .22, s.sit ? .15 : .22, 0).applyQuaternion(q); v.set(s.x + off.x, base + jump + off.y + (up ? .12 : -.05), s.z + off.z); m4.compose(v, qa, sc); arms.setMatrixAt(i * 2 + (sd > 0 ? 1 : 0), m4); }
+    });
+    bodies.instanceMatrix.needsUpdate = heads.instanceMatrix.needsUpdate = hairs.instanceMatrix.needsUpdate = arms.instanceMatrix.needsUpdate = true;
+  };
+}
+// আয়তাকার মাঠের চারপাশে দর্শকের জায়গা
+export function ringSpots(w, l, rows, perSide, gap = 1.5) {
+  const out = [];
+  rows.forEach((dist, ri) => { for (const side of [0, 1, 2, 3]) { const n = perSide[side % 2] - ri; for (let i = 0; i < n; i++) { const t = (i + .5) / n - .5; let x, z, ry; if (side === 0) { x = t * (w + 2); z = -l / 2 - dist; ry = 0; } else if (side === 1) { x = t * (w + 2); z = l / 2 + dist; ry = Math.PI; } else if (side === 2) { x = -w / 2 - dist; z = t * (l + 2); ry = Math.PI / 2; } else { x = w / 2 + dist; z = t * (l + 2); ry = -Math.PI / 2; } out.push({ x: x + rnd(-.15, .15), z: z + rnd(-.15, .15), ry, sit: ri === 0, side }); } } });
+  return out;
+}
+// হালকা গ্লো: দুর্বল ফোনে বন্ধ
+export function composerFor(THREE, renderer, scene, cam, { strength = .35, radius = .55, threshold = .86 } = {}) {
+  if (!renderer || isLow()) return null;
+  const c = new EffectComposer(renderer); c.addPass(new RenderPass(scene, cam)); c.addPass(new UnrealBloomPass(new THREE.Vector2(256, 256), strength, radius, threshold)); c.addPass(new OutputPass()); return c;
+}

diff --git a/sw.js b/sw.js
@@ -1,7 +1,7 @@
 // খেলাঘর service worker: পেজগুলো ক্যাশে রাখে, যাতে দুর্বল নেটেও দ্রুত খোলে।
 // নতুন ভার্সন পাবলিশ করলে VERSION বাড়ান।
-const VERSION = 'khelaghor-v55';
-const CORE = ['/', '/app/', '/games/ludo/', '/games/mosha/', '/games/jam/', '/games/bazar/', '/games/argbra/', '/games/carrom/', '/games/sholo/', '/games/bagh/', '/games/ghuri/', '/games/hadudu/', '/games/callbridge/', '/games/twentynine/', '/games/chess/', '/games/gollachut/', '/games/dariabandha/', '/js/chess-engine.js', '/js/kh-human.js', '/js/guest.js', '/js/share-card.js', '/help/', '/offline.html', '/js/game-info.js', '/js/fun.js', '/js/voice.js', '/js/videos.js', '/js/viral.js', '/js/howto.js', '/js/stories.js', '/js/story-split.js', '/js/ludo-engine.js', '/js/vendor/three.module.min.js', '/js/online.js', '/js/firebase-config.js', '/manifest.webmanifest', '/icons/icon-192.png', '/icons/icon-512.png'];
+const VERSION = 'khelaghor-v56';
+const CORE = ['/', '/app/', '/games/ludo/', '/games/mosha/', '/games/jam/', '/games/bazar/', '/games/argbra/', '/games/carrom/', '/games/sholo/', '/games/bagh/', '/games/ghuri/', '/games/hadudu/', '/games/callbridge/', '/games/twentynine/', '/games/chess/', '/games/gollachut/', '/games/dariabandha/', '/js/chess-engine.js', '/js/kh-human.js', '/js/kh-scene.js', '/js/guest.js', '/js/share-card.js', '/help/', '/offline.html', '/js/game-info.js', '/js/fun.js', '/js/voice.js', '/js/videos.js', '/js/viral.js', '/js/howto.js', '/js/stories.js', '/js/story-split.js', '/js/ludo-engine.js', '/js/vendor/three.module.min.js', '/js/online.js', '/js/firebase-config.js', '/manifest.webmanifest', '/icons/icon-192.png', '/icons/icon-512.png'];
 
 self.addEventListener('install', e => {
   e.waitUntil(caches.open(VERSION).then(c => c.addAll(CORE)).then(() => self.skipWaiting()));
